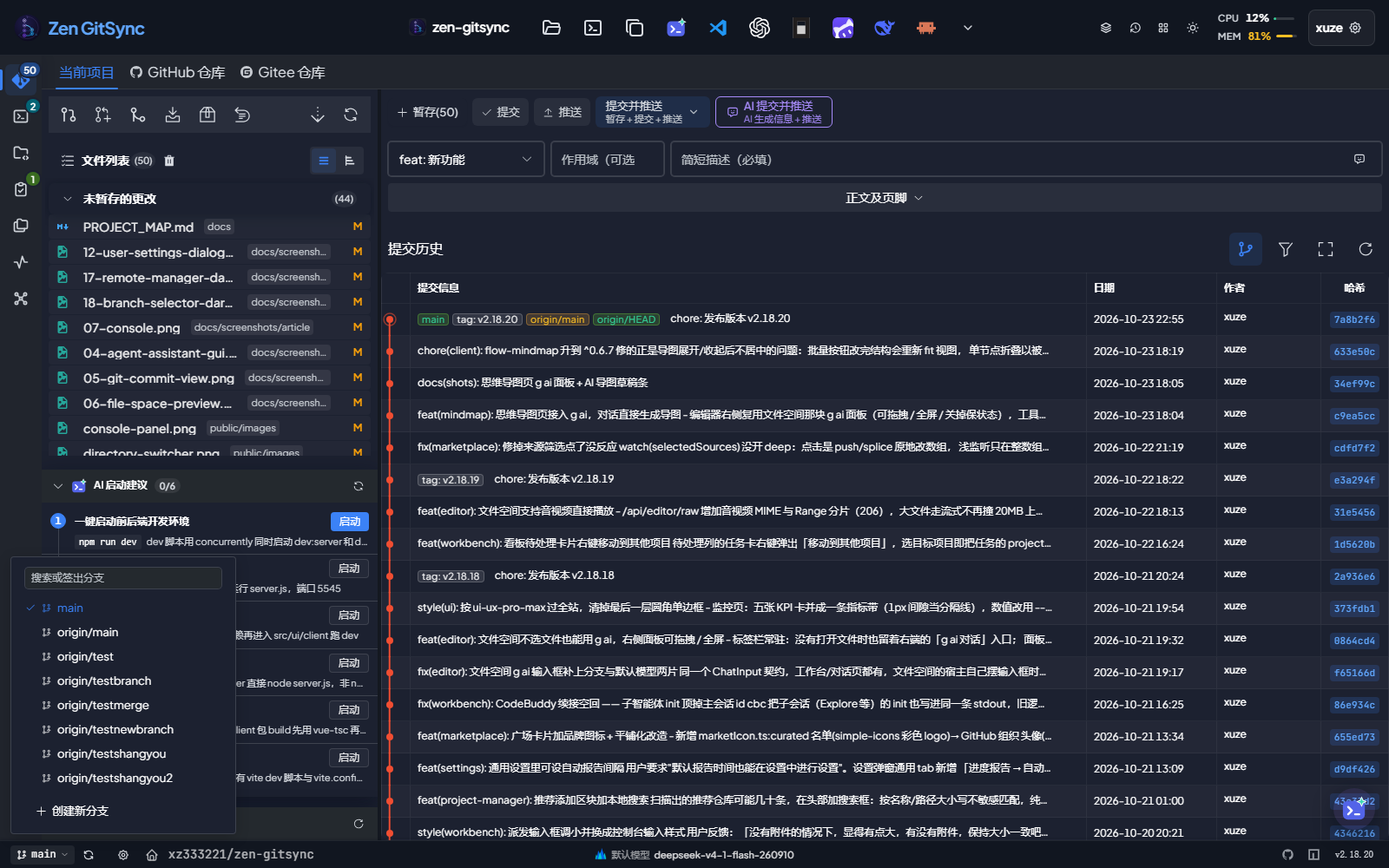
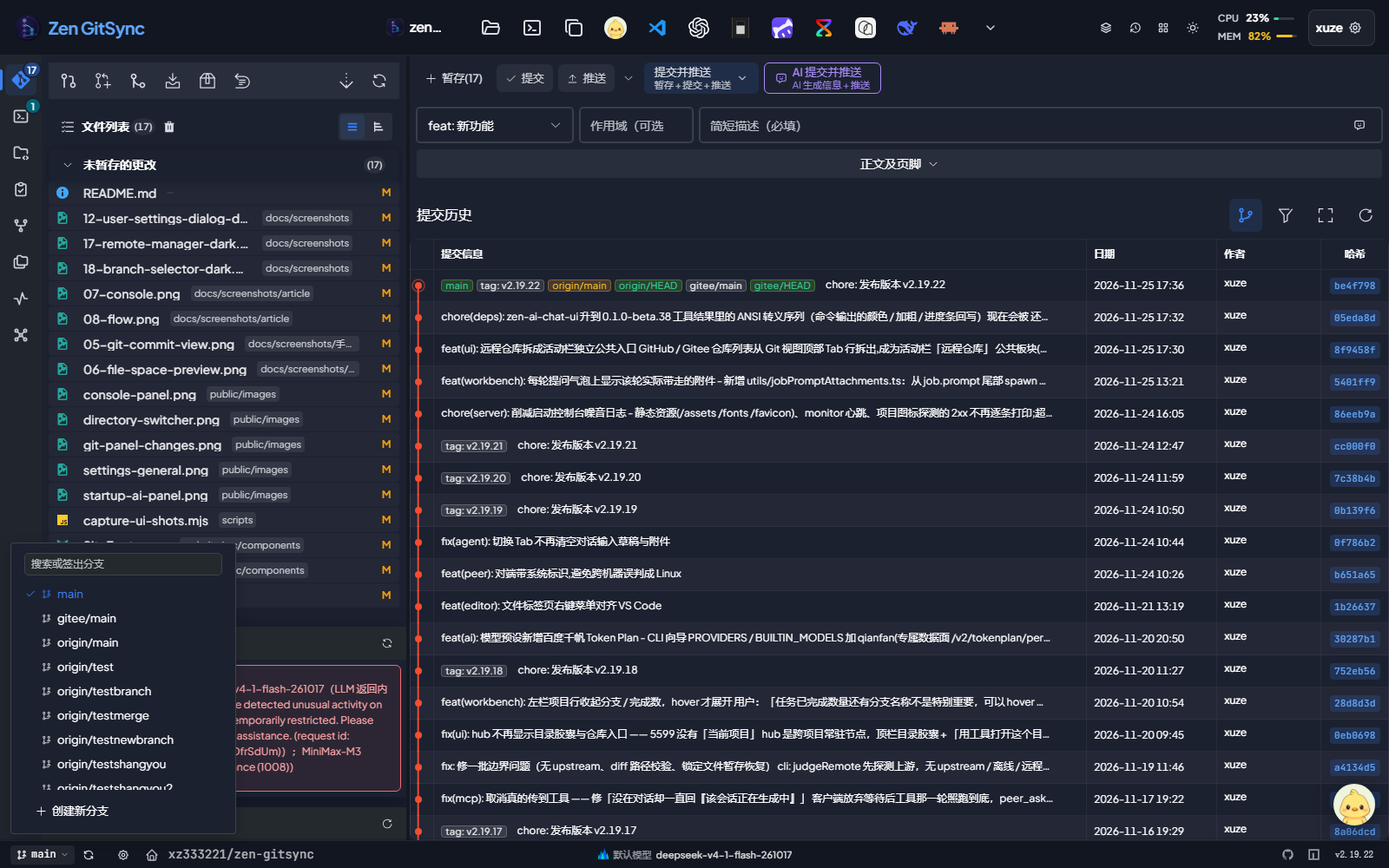
docs(readme): 对齐 v2.19 现状并重截全部界面截图
- 首部加官网链接 zen-gitsync.flowdash.cn（中英两节）
- 智能体入口改为右下角悬浮 dock 口径（活动栏清单、架构图、视图一览、智能体章节）
- 执行器清单扩到 7 个 CLI（+ CodeBuddy Code / Pi / 华为码道 / Qoder），工具检测 7→11
- 英文节补上中文节已有的「监听地址 / 跨站请求守卫」两段
- capture-ui-shots.mjs 整场以 full 角色跑（活动栏按角色门控后 project 只剩 3 个 tab）
- 官网与 README 用图全部按当前 UI 重截

diff --git a/README.md b/README.md
@@ -4,6 +4,8 @@
 
 A Git automation platform with interactive commits, scheduled sync, custom command orchestration, file locking, and a visual GUI.
 
+> **Official site:** [zen-gitsync.flowdash.cn](https://zen-gitsync.flowdash.cn/) — live feature tour & docs
+
 ## Table of Contents
 
 - [Installation](#installation)
@@ -61,7 +63,9 @@ npm install -g zen-gitsync
 - **Custom commands** — Save, parameterize, and reuse shell commands
 - **Project startup** — Auto-run commands or workflows when a project opens
 - **Built-in code editor** — Monaco-based file editor with Markdown preview
-- **Workbench** — a multi-project board with a kanban view and a master-agent dispatch console; task-driven agent execution (Claude Code or OpenCode) with prompt presets, isolated per-task processes, live streaming output, AI-generated presets and task-level attachments
+- **Workbench** — a multi-project board with a kanban view and a master-agent dispatch console; task-driven agent execution across seven CLIs (Claude Code, OpenCode, Codex, CodeBuddy Code, Pi, CodeArts, Qoder) with prompt presets, isolated per-task processes, live streaming output, AI-generated presets and task-level attachments
+- **Floating agent dock** — the AI chat lives in a floating dock available from every view: a mascot button at the bottom-right expands the chat panel in place, maximize restores the full two-column session experience, and switching views keeps the conversation open
+- **Peer MCP tools** — the MCP tool set installed via `g mcp` now includes `peers_list` / `peer_ask`, so an agent on one machine can query and ask the zen-gitsync hub running on another
 - **Repository cloning** — clone any GitHub / Gitee repository into a folder straight from the repo browser, with an *Already cloned* badge (and its local path(s), including the count when a repo lives in several folders) backed by a whole-disk local-repository scan
 - **Skill / MCP marketplace** — install skills and MCP servers from the Agent view into the current project or the `g ai` agent
 - **One-click MCP install** — right-click an editor / AI tool button in the header (VS Code, Claude Code, Codex, OpenCode, CodeBuddy Code, Pi Agent) and choose *Add zen-gitsync MCP* to register zen-gitsync as that tool's MCP server: merged into its config in place with a `.bak` backup (never hand-edit config files again), and the menu shows whether it is already added. The same registry is available from the CLI via `g mcp install`
@@ -88,7 +92,25 @@ npm install -g zen-gitsync
 $ g ui
 ```
 
-The GUI runs as a local web server and opens in your default browser on the first free port it finds in `4000–6000` (set `PORT` to pin a fixed one). It attaches to the current Git repository automatically. The activity bar on the left switches between **Git**, **Console**, **Agent**, **Editor**, **Workbench**, **Projects**, **System Monitor** and **Mindmap**, top to bottom. See the [Core Git Panel](#core-git-panel) screenshot below for what the main view looks like.
+The GUI runs as a local web server and opens in your default browser on the first free port it finds in `4000–6000` (set `PORT` to pin a fixed one). It attaches to the current Git repository automatically. The activity bar on the left switches between **Git**, **Console**, **Editor**, **Workbench**, **Remote repositories**, **Projects**, **System Monitor** and **Mindmap**, top to bottom. The AI agent is not on the rail — it lives in a floating dock at the bottom-right corner of every view (see [AI Agent](#ai-agent-web)). See the [Core Git Panel](#core-git-panel) screenshot below for what the main view looks like.
+
+### Listen address & cross-site guard
+
+By default the GUI server binds to `127.0.0.1` (loopback) only. There is no authentication layer — bound to `0.0.0.0`, endpoints that execute commands, write `package.json` or open files with the system handler would be callable by any host on the network.
+
+To reach the GUI from another machine (or WSL), opt in explicitly:
+
+```shell
+$ ZEN_HOST=0.0.0.0 g ui      # macOS / Linux
+$ set ZEN_HOST=0.0.0.0 && g ui   # Windows cmd
+$ $env:ZEN_HOST="0.0.0.0"; g ui  # PowerShell
+```
+
+With `ZEN_HOST` set, the address is added to the Origin whitelist automatically. All `/api` requests are Origin-checked: no `Origin` header (curl / CLI / same-origin GET), loopback origins on any port, and `file://` pages pass; any other origin gets `403`. Extra origins can be allowed with `ZEN_ALLOWED_ORIGINS` (comma-separated full origins, scheme and port included):
+
+```shell
+$ ZEN_ALLOWED_ORIGINS="https://zen.example.com,http://10.0.0.5:8080" g ui
+```
 
 ### Architecture at a glance
 
@@ -102,9 +124,6 @@ The GUI runs as a local web server and opens in your default browser on the firs
                   │  └───┘                                      │
                   │  ┌──────┐                                   │
                   │  │Consol│─► Saved commands + terminal       │
-                  │  └──────┘                                   │
-                  │  ┌──────┐                                   │
-                  │  │Agent │─► Web agent + Skill/MCP plaza     │
                   │  └──────┘                                   │
                   │  ┌──────┐                                   │
                   │  │Edit  │─► Monaco editor + file tree       │
@@ -205,7 +224,7 @@ In either mode, click **AI Generate** to fill in the fields automatically based 
 
 > Click the directory name in the header (or the folder icon) to open this dialog. Type a path, hit **浏览** to use the OS file picker, or pick from **常用目录** for one-click switching. **使用新标签打开** spawns a new GUI tab on that path so you can keep the current project open.
 
-The header row beside the directory name carries its own quick actions: open in the file manager, open in a terminal, copy the folder name (last path segment only), open with `g ai`, and one button per detected editor / AI tool — VS Code, Codex, OpenCode, CodeBuddy Code, Pi Agent, Kimi Code, ZCode, DeepSeek Harness and Claude Code. Right-clicking a tool button opens its menu: the tools whose CLI can skip approval prompts (Claude Code, Codex, OpenCode, CodeBuddy Code, Kimi Code) list their permission tiers there — default plus that CLI's own fully-approved switch, each row naming the flag it passes — above **update to the latest version**. Tools that are not installed are collected into a **more** menu, where clicking one opens the install guide.
+The header row beside the directory name carries its own quick actions: open in the file manager, open in a terminal, copy the folder name (last path segment only), open with `g ai`, and one button per detected editor / AI tool — VS Code, Codex, OpenCode, CodeBuddy Code, Pi Agent, CodeArts (华为云码道), Qoder, Kimi Code, ZCode, DeepSeek Harness and Claude Code. Right-clicking a tool button opens its menu: the tools whose CLI can skip approval prompts (Claude Code, Codex, OpenCode, CodeBuddy Code, Kimi Code) list their permission tiers there — default plus that CLI's own fully-approved switch, each row naming the flag it passes — above **update to the latest version**. Tools that are not installed are collected into a **more** menu, where clicking one opens the install guide.
 
 When the GUI is opened on a directory that is not a Git repository, the right pane shows the **Recent projects** list instead — every recent directory with its Git badges (behind / ahead / uncommitted) and one-click "open in a new tab". Each page load runs a `git fetch` pass over all of them automatically, so the ahead/behind badges show the real state rather than the snapshot from the last fetch; the **刷新全部** button does the same thing on demand. The switcher dialog shows the same list as **常用目录** and carries the very same **刷新全部** button at the right end of its heading — the automatic pass stays panel-only (opening a dialog should not fetch a dozen repositories behind your back), but the manual one is identical in both places, right down to the progress readout. Both places also have a search box above the cards: type any fragment of a path to filter the list (the AI status summary below keeps describing the whole set, not the filtered view).
 
@@ -374,7 +393,7 @@ Configure commands or workflows to run automatically when a project is opened:
 | **Editor** | Browse & edit project files without leaving the GUI | Open tabs, unsaved markers, recent files | Monaco editor with syntax highlighting, Markdown preview, file search (file names and contents) |
 | **Workbench** | Multi-project board for dispatching and running agent tasks | Tasks, prompts, board layout, log retention | Kanban board, master-agent console, executor choice, live chat-style logs |
 | **Projects** | Manage the project list as an asset | The same list the Workbench reads | Add / remove without touching the current project, recommended additions, 10 s silent refresh |
-| **Agent** | Chat with the built-in AI agent (web + CLI sessions) | Sessions, pending questions | Streaming answers, tool-call cards, Skill / MCP plaza, rail badge counting the conversations still generating |
+| **Agent (dock)** | Chat with the built-in AI agent from any view (web + CLI sessions) | Sessions, pending questions | Floating dock at the bottom-right, streaming answers, tool-call cards, Skill / MCP plaza, dock badge counting the conversations still generating |
 
 **Console**, **System Monitor** and **Mindmap** are utility views on the same rail.
 
@@ -425,15 +444,15 @@ A dedicated view for running coding agents across one or many projects. Every ta
 | Marking a task done by hand | The columns are derived from execution facts, which cannot express the two things only you know: a task sitting in **Todo** that was really finished somewhere else, and an **In progress** task whose model has gone quiet while you can see the work is done. Both cards now hover out a **Done** button next to **Run** / **Stop**, and a card that got into Done *by hand* trades it for **Undo**. A card that finished on its own keeps showing neither — undoing a mark it never had would do nothing at all. Marking a still-running task done asks first and stops that run as part of the same action (a card cannot be Done and running at once), which holds across windows too: if the job lives in another `g ui` instance the server refuses with that very reason instead of pretending. The mark is stored on the task rather than faked as a run record, and a later run of that task supersedes it, so the card goes back to following the facts. Undo is one click with no confirmation — it is the "I clicked the wrong one" path — and hands the card back to the execution facts, which is why it is offered only where the mark is what keeps the card in Done |
 | Dispatch default prompts | Give every dispatch a standing prompt: one **global** entry that applies to all projects, plus one **per project** that is appended after it whenever you dispatch to that project (it supplements the global one rather than replacing it). Both are edited from the gear button in the console's composer; the combined text is prepended to the instruction, a "Default prompt (global + this project)" checkbox appears next to **Run now** so a single dispatch can opt out, and the instruction log records which level was attached. The prompt is copied onto the task at dispatch time, so editing the setting later never rewrites tasks that already exist; it lands in the task's own prompt field, where you can still edit it per task |
 | Project icon | Every project row leads with **the project's own favicon** instead of a generic folder — a 32 px tile spanning the name and branch lines, so the list reads at a glance. The same icon is used on the **recent-directories** cards in the switch-directory dialog, on the **top-bar directory pill**, and on the **board's own title line** (one lookup, one fallback — only the slot height differs per row: 32 px in the list, 24 px on the board, 20 px in the top bar). The server looks for the icon the project actually ships: first the `<link rel="icon">` declared in its `index.html`, then a `favicon.svg` / `.png` / `.webp` / `.ico` found within two levels of the project root (which is what finds layouts like `frontend/public/favicon.svg`). The lookup is bounded (dependency, VCS and cache folders are skipped outright; build output is searched last) and cached for five minutes, so the board's five-second poll never re-walks the disk. Projects that ship no icon — and icons that fail to load, such as a CDN URL the browser refuses — fall back to the folder glyph, so a row never shows a broken image. Nested repositories are skipped on purpose: a folder that merely *contains* your projects keeps the folder glyph instead of borrowing one of theirs |
-| Open-with menu per project | Hovering a project row in the board's project list reveals two buttons: **Open folder** (straight to your file manager) and **Open with**, a menu holding file manager / terminal / `g ui` in a new tab plus every editor and AI tool (VS Code, Codex, OpenCode, CodeBuddy Code, Pi Agent, Kimi Code, ZCode, DeepSeek Harness). The tools whose CLI can skip approval prompts — Claude Code, Codex, OpenCode, CodeBuddy Code, Kimi Code — each add their own fully-approved entry (Codex also gets its auto-approve-but-still-sandboxed one). Tools that are not installed are dimmed and labelled "Not installed" — clicking one opens the very same install guide the top bar uses. Every action applies to that row's project only; the board's selection is never touched |
+| Open-with menu per project | Hovering a project row in the board's project list reveals two buttons: **Open folder** (straight to your file manager) and **Open with**, a menu holding file manager / terminal / `g ui` in a new tab plus every editor and AI tool (VS Code, Codex, OpenCode, CodeBuddy Code, Pi Agent, CodeArts, Qoder, Kimi Code, ZCode, DeepSeek Harness). The tools whose CLI can skip approval prompts — Claude Code, Codex, OpenCode, CodeBuddy Code, Kimi Code — each add their own fully-approved entry (Codex also gets its auto-approve-but-still-sandboxed one). Tools that are not installed are dimmed and labelled "Not installed" — clicking one opens the very same install guide the top bar uses. Every action applies to that row's project only; the board's selection is never touched |
 | Remove a dead project | A row whose folder no longer exists still shows up — the list is the union of recent directories and the paths your tasks remember — so that row gets a single red **Remove from list** button instead of the open actions (opening a missing folder can only fail). The confirm dialog spells it out: **no tasks are deleted**, and the toast repeats how many were kept. The entry disappears from the list while every task, job and history record stays put; if you ever clone the folder back, the row returns on its own |
 | Task editor overlay | Clicking a board card opens the editor as an overlay: a flat sidebar holding the task list and prompt presets, then the task header, preset selector, executor split-button, the copy-execution / execution-log / clear-execution actions, and a chat-style execution body. The description collapses into a one-line "Task description (optional)" summary until clicked, showing a "Filled" badge and the attachment count once there is content. Opening the overlay lands the conversation on its **newest** turn rather than its first: the flow keeps re-pinning to the bottom while markdown highlighting and tool-call folding are still growing it after mount, and lets go as soon as you scroll yourself. The thin bar on top carries the back-to-board button, the current project, then a **task-status badge** (running / done / failed / to-do, in the same role colors as the board column headers, its dot pulsing while it runs; hover for the "AI marked done" / "marked done manually" reasoning — before this the bar showed only time and duration, so a running task could still wear last turn's "1 hour ago · took 13 min" and look finished), and — just left of the "Task execution" label at its right end — the task's **relative time and how long it took** (a "took x" line once it has run, a live "running for x" while it is, and only the time — no placeholder — if it never ran), word for word the same two values the board card shows. When the window narrows, this block and the status badge yield first (the badge is dropped entirely at roughly phone width rather than squashing the project name): the back button, project and execution-path chips never give up a single pixel |
 | Copy execution content | **Copy execution content** in the task header puts the whole task — every turn, not just whatever is on screen — on the clipboard as plain Markdown: a header line for the task and its project, then one section per turn (`## Round N`, with the executor, status and start time on the line under it) holding the user's prompt, the agent's thinking, its tool calls (arguments and results in fenced blocks) and the model's output. It is assembled from the run records rather than scraped from the DOM, so what you get never depends on what happens to be selected. The user side goes through the same trimming the chat bubbles use, so what you copy is what you typed — the injected environment / memory blocks and the attachment list stay behind in `job.prompt`. Turns with nothing in them are skipped without renumbering the ones after them, and a task that has never run answers with a "nothing to copy" toast instead of putting an empty string on the clipboard |
-| Executor choice | Run each task with **Claude Code**, **OpenCode** or **Codex**. The global default is set in **Settings → General → Task executor** (`config.taskExecutor`); the split-button next to the run button switches it for the next run and remembers that pick in the browser. A continued conversation always stays on the executor that started it — Claude's `--resume`, OpenCode's `--session` and Codex's thread id are not interchangeable |
+| Executor choice | Run each task with **Claude Code**, **OpenCode**, **Codex**, **CodeBuddy Code**, **Pi**, **CodeArts (华为云码道)** or **Qoder**. The global default is set in **Settings → General → Task executor** (`config.taskExecutor`); the split-button next to the run button switches it for the next run and remembers that pick in the browser. A continued conversation always stays on the executor that started it — the resume flags are not interchangeable across CLIs |
 | Attachments | Any number of files per task (image / PDF / text / Markdown / CSV / JSON / log, ≤ 20 MB each); images over 3.5 MB are re-encoded / downscaled in the browser before upload so 4K screenshots still fit what the model and the reader can take. Their absolute paths are appended to the prompt so the agent reads them directly. Right-click an image attachment to copy it to the system clipboard (`image/png` / `jpeg` / `webp` / `gif`). The board's create-task dialog takes them too, before the task exists: files are staged server-side (`workbench-images/_dispatch/`) and claimed into the task's own folder the moment you hit Create, the create button stays disabled while an upload is in flight, and closing the dialog without creating deletes them instead of leaving screenshots behind. File names travel percent-encoded, so a name written in Chinese uploads like any other. The attachments a run actually carried also show up on that turn's question bubble in the conversation flow (image thumbnails included) — see Continue chat |
 | Prompt presets | Reusable prompt templates with `{{task.title}}` / `{{task.desc}}` / `{{repo.path}}` / `{{branch}}` variable interpolation |
 | AI prompt generation | The "New / Edit preset" dialog carries an **AI Generate project architecture** button plus an **Edit instruction** button: the server recursively finds every sub-project (a directory holding `.git` or one of 9 manifests), reads each one's key files on its own (manifest 20 KB / README 8 KB / a 2-level tree), calls the LLM concurrently to produce a per-sub-project architecture description, and merges them into one when there are several. **Edit instruction** customises the prompt used for generation (persisted to `~/.zen-gitsync/ai-instruction.json`) |
-| Pipe-mode launcher | Spawns the selected executor as a detached process with stdout/stderr piped to the server — no external terminal window is opened, so output streams directly into the UI. Claude Code runs as `claude -p - --output-format stream-json --verbose --permission-mode bypassPermissions --dangerously-skip-permissions` (the prompt goes in over stdin to dodge Windows' 32 K command-line limit); OpenCode runs as `opencode run --format json --auto --thinking`; Codex runs as `codex exec --json --skip-git-repo-check --dangerously-bypass-approvals-and-sandbox -`, both following whatever default model their own CLI is configured with |
+| Pipe-mode launcher | Spawns the selected executor as a detached process with stdout/stderr piped to the server — no external terminal window is opened, so output streams directly into the UI. Claude Code runs as `claude -p - --output-format stream-json --verbose --permission-mode bypassPermissions --dangerously-skip-permissions` (the prompt goes in over stdin to dodge Windows' 32 K command-line limit); OpenCode runs as `opencode run --format json --auto --thinking`; Codex runs as `codex exec --json --skip-git-repo-check --dangerously-bypass-approvals-and-sandbox -`; CodeBuddy / Pi / CodeArts / Qoder run their own headless JSON-stream equivalents — each following whatever default model its own CLI is configured with |
 | Isolated processes | Every run is its own detached process with fresh context, so memory and conversation state never accumulate across tasks |
 | **Cross-run memory** | Every dispatched task is told about a local memory library at `~/.zen-gitsync/memory/` — the lessons earlier agents in that same repository left behind. The library is deliberately **two-tier**: only `INDEX.md` (one ≤100-character line per lesson) ever enters the prompt, while the lesson bodies live in `lessons/*.md` and are read **on demand, only when an index line actually matches the task**. Nothing is preloaded and `archive/` is never read — which is the whole point, since pasting the index into every prompt would make each dispatch pay for every unrelated historical lesson. When the workbench starts, the library is seeded if it does not exist yet (existing files are never overwritten). Before finishing, each agent self-checks four questions — stuck ≥3 min or a repeated wrong path, a wrong tool / wrong file / a grep drowned in build output, a correction from you, or a verified non-obvious shortcut — and writes **one** lesson if any of them is yes, always appending the matching `INDEX.md` line (a lesson without an index line is a lesson nobody will ever find). Set `memoryContext: false` on a task to opt out of the whole thing |
 | Memory library panel | **Settings → Memory** browses the same library: a scope picker (the two global files plus every repository the agents have worked in, labelled by its real path), the lesson list for the selected scope, and click-to-expand for the raw text. Deleting a lesson **also removes its line from the index** — leaving a line behind would point agents at a file that no longer exists. Lessons that were written without an index line are badged as **Not indexed**, since the agent can never find those. `GLOBAL.md` and `INDEX.md` themselves cannot be deleted (they are the accounting). Nothing here is saved through the dialog's Save button: every action takes effect immediately |
@@ -445,7 +464,7 @@ A dedicated view for running coding agents across one or many projects. Every ta
 | Cross-view indicator | While any Workbench task is running, a pulsing dot appears on the Workbench icon in the Activity Bar so you can see job state from the Git or Editor view |
 | Execution log manager (dialog) | The "Execution logs" button in the workbench top bar opens a dialog with the list / filter / batch delete / clear / retention-policy UI (defaults: 500 records, 256 MB); the task execution view stays mounted so no work-in-progress state is dropped |
 | Continue chat | After a task reaches a done / error / cancelled state, a follow-up composer appears; sending a message resumes the previous session (`claude --resume <session_id>` for Claude Code, `--session` for OpenCode, `codex exec resume <thread_id>` for Codex), and each new turn stacks into the same chat-style flow. Since the resumed session already carries the previous turn's context, follow-up turns inject only a **slim refresh** of the run-environment block (current project + board totals + truth-file paths) instead of the full project list. The bubbles show only what the user actually typed: the injected environment / memory blocks and the attachment list stay in the raw `job.prompt` (readable and copyable in the run log), so copying a conversation out and pasting it back no longer drags a whole round of background along. **The attachments each turn actually carried render on that turn's question bubble** — parsed back from the frozen list at the tail of `job.prompt`, so old runs show them too and files added later never leak onto earlier bubbles; images claim their thumbnail from the attachment endpoint when the task still has the record, otherwise they degrade to a file chip |
-| Local tool detection | On startup + every 10 min the server probes 7 CLIs (`code`, `claude`, `codex`, `opencode`, `kimi`, `zcode`, `dsh`). Tools that are missing are dimmed and labelled "Not installed" — clicking one opens the install guide, and right-clicking a tool button offers an update to the latest published version |
+| Local tool detection | On startup + every 10 min the server probes 11 CLIs (`code`, `claude`, `codex`, `opencode`, `codebuddy`, `pi`, `codearts`, `qoder`, `kimi`, `zcode`, `dsh`). Tools that are missing are dimmed and labelled "Not installed" — clicking one opens the install guide, and right-clicking a tool button offers an update to the latest published version |
 
 Prompt presets and tasks are persisted to `~/.zen-gitsync/prompts.json` and `~/.zen-gitsync/tasks.json` (cross-project, shared across repos); run history and the retention policy live in `jobs.json` / `jobs-config.json`, the master-agent console state in `orchestrator.json` (with its report history in `orchestrator-reports.json` — kept apart so the polled state file stays small), and task attachments under `~/.zen-gitsync/workbench-images/_task-<taskId>/`.
 
@@ -453,7 +472,7 @@ Prompt presets and tasks are persisted to `~/.zen-gitsync/prompts.json` and `~/.
 
 ### AI Agent (Web)
 
-A dedicated view (robot icon in the activity bar) for chatting with the built-in AI agent directly from the browser. The left sidebar lists all saved sessions (both Web and CLI origins); the right pane is a full chat interface with streaming responses, thinking process display, and tool-call visualization.
+The AI agent is reachable from every view through a **floating dock at the bottom-right corner**: a small mascot button expands the chat panel in place, and the dock's maximize button turns it into the full two-column layout (session list + conversation) — the complete experience the former dedicated Agent view had. The session list covers all saved sessions (both Web and CLI origins); the conversation pane is a full chat interface with streaming responses, thinking process display, and tool-call visualization.
 
 | Feature | Description |
 |---|---|
@@ -729,6 +748,8 @@ $ g --check-lock=config.json
 
 `zen-gitsync` 是一个 Git 自动化工作平台，支持交互式提交、定时同步、自定义命令编排、文件锁定与可视化 GUI 界面。
 
+> **官网：** [zen-gitsync.flowdash.cn](https://zen-gitsync.flowdash.cn/) —— 功能介绍与在线文档
+
 ## 目录
 
 - [安装](#安装)
@@ -786,7 +807,9 @@ npm install -g zen-gitsync
 - **自定义命令** — 保存、参数化并复用 Shell 命令
 - **项目启动** — 打开项目时自动运行命令或工作流
 - **内置代码编辑器** — 基于 Monaco 的文件编辑器，支持 Markdown 预览
-- **工作台** — 多项目看板 + 主 Agent 派发控制台；任务驱动的智能体执行（Claude Code 或 OpenCode），支持提示词预置、任务级附件、独立进程、实时流式回传与 AI 生成预置提示词
+- **工作台** — 多项目看板 + 主 Agent 派发控制台；任务驱动的智能体执行，支持 7 个 CLI 执行器（Claude Code、OpenCode、Codex、CodeBuddy Code、Pi、华为云码道、Qoder），支持提示词预置、任务级附件、独立进程、实时流式回传与 AI 生成预置提示词
+- **g ai 悬浮 dock** — AI 对话整合为右下角悬浮球：点 mascot 原地展开对话面板，最大化恢复完整两栏会话体验；切换视图不丢对话
+- **peer MCP 工具** — `g mcp` 登记的 MCP 工具集新增 `peers_list` / `peer_ask`，一台机器上的智能体可以查询并询问另一台机器上的 zen-gitsync hub
 - **仓库克隆** — 在仓库浏览器里把任意 GitHub / Gitee 仓库直接克隆到指定文件夹，卡片带「已克隆」徽标与本地路径（同一仓库克隆到多处时会显示条数，由全盘本地仓库扫描得出）
 - **Skill / MCP 广场** — 在智能体页把 Skill 与 MCP 服务安装到当前项目或 `g ai` 智能体
 - **一键添加 MCP** — 右键顶栏的编辑器 / AI 工具按钮（VS Code、Claude Code、Codex、OpenCode、CodeBuddy Code、Pi Agent），选「添加 zen-gitsync MCP」即可把 zen-gitsync 登记为那个工具的 MCP 服务 —— 合并式写入 + `.bak` 备份，不用手改配置文件；菜单里会标出是否已添加。同一份登记逻辑在 CLI 侧是 `g mcp install`
@@ -813,7 +836,7 @@ npm install -g zen-gitsync
 $ g ui
 ```
 
-GUI 以本地 Web 服务器形式运行，自动在浏览器中打开，并附加到当前 Git 仓库。端口默认在 `4000–6000` 里挑第一个可用的（可用 `PORT` 固定）。左侧 Activity Bar 自上而下为 **Git** / **控制台** / **智能体** / **编辑器** / **工作台** / **项目管理** / **系统监控** / **思维导图**。主界面长什么样可参考下方[核心 Git 面板](#核心-git-面板)的截图。
+GUI 以本地 Web 服务器形式运行，自动在浏览器中打开，并附加到当前 Git 仓库。端口默认在 `4000–6000` 里挑第一个可用的（可用 `PORT` 固定）。左侧 Activity Bar 自上而下为 **Git** / **控制台** / **编辑器** / **工作台** / **远程仓库** / **项目管理** / **系统监控** / **思维导图**；AI 智能体不在导航栏上 —— 它是每个视图右下角的悬浮 dock（见[智能体](#智能体web-端)）。主界面长什么样可参考下方[核心 Git 面板](#核心-git-面板)的截图。
 
 ### 监听地址
 
@@ -858,9 +881,6 @@ $ ZEN_ALLOWED_ORIGINS="https://zen.example.com,http://10.0.0.5:8080" g ui
                   │  └───┘                                      │
                   │  ┌──────┐                                   │
                   │  │控制 │──► 保存的命令 + 终端                 │
-                  │  └──────┘                                   │
-                  │  ┌──────┐                                   │
-                  │  │智能 │──► Web 智能体 + Skill/MCP 广场      │
                   │  └──────┘                                   │
                   │  ┌──────┐                                   │
                   │  │编辑 │──► Monaco 编辑器 + 文件树           │
@@ -961,7 +981,7 @@ $ ZEN_ALLOWED_ORIGINS="https://zen.example.com,http://10.0.0.5:8080" g ui
 
 > 点击顶部条里的目录名（或文件夹图标）即可弹出该对话框。直接输入路径、点击 **浏览** 唤起系统文件选择器，或从 **常用目录** 一键切换。**使用新标签打开** 会在新 GUI 标签里加载目标路径，原项目保持不动。
 
-目录名旁边的顶部条自带一排快捷操作：在资源管理器中打开、在终端中打开、复制文件夹名称（只复制最后一级目录名）、用 `g ai` 打开，以及每个已检测到的编辑器 / AI 工具各一个按钮 —— VS Code、Codex、OpenCode、CodeBuddy Code、Pi Agent、Kimi Code、ZCode、DeepSeek Harness 与 Claude Code。右键工具按钮弹出的菜单里：CLI 本身有免批准档的工具（Claude Code、Codex、OpenCode、CodeBuddy Code、Kimi Code）逐档列出「默认权限」与它自己那个完全批准开关（每行都写明实际传的参数），排在「更新到最新版本」之上。没安装的工具会收进 **更多** 菜单，点一下弹出安装引导。
+目录名旁边的顶部条自带一排快捷操作：在资源管理器中打开、在终端中打开、复制文件夹名称（只复制最后一级目录名）、用 `g ai` 打开，以及每个已检测到的编辑器 / AI 工具各一个按钮 —— VS Code、Codex、OpenCode、CodeBuddy Code、Pi Agent、华为云码道（CodeArts）、Qoder、Kimi Code、ZCode、DeepSeek Harness 与 Claude Code。右键工具按钮弹出的菜单里：CLI 本身有免批准档的工具（Claude Code、Codex、OpenCode、CodeBuddy Code、Kimi Code）逐档列出「默认权限」与它自己那个完全批准开关（每行都写明实际传的参数），排在「更新到最新版本」之上。没安装的工具会收进 **更多** 菜单，点一下弹出安装引导。
 
 当 GUI 打开在一个**不是 Git 仓库**的目录上时，右侧会改为显示「最近项目」列表 —— 每个最近目录一张卡片，带 Git 徽标（落后 / 领先 / 未提交）与「在新标签页打开」。每次打开界面时会自动对所有项目跑一遍 `git fetch`，让「领先/落后」显示真实状态而不是上次 fetch 时的快照；**刷新全部** 按钮可以随时手动再刷一遍。切换目录弹窗里是同一份列表（叫 **常用目录**），标题行右端摆着同一个 **刷新全部** 按钮 —— 自动刷新仍然只发生在常驻面板上（打开一个选目录的弹窗不该顺手联网刷十几个仓库），但手动刷新两处完全一致，连进度读数都是同一个。两处的卡片上方还各有一个搜索框：敲路径里的任意一段就能筛出对应的卡片（底下的 AI 状态解读始终按全量那批目录来讲，不跟着筛选变）。
 
@@ -1130,7 +1150,7 @@ $ ZEN_ALLOWED_ORIGINS="https://zen.example.com,http://10.0.0.5:8080" g ui
 | **编辑器** | 不离开 GUI 浏览并编辑项目文件 | 打开的 tab、未保存标记、最近访问 | Monaco 编辑器带语法高亮、Markdown 预览、文件搜索（文件名 + 文件内容） |
 | **工作台** | 多项目看板：派发并执行智能体任务 | 任务、提示词、看板布局、日志保留策略 | 看板视图、主 Agent 控制台、执行器选择、对话式实时日志 |
 | **项目管理** | 把项目清单当资产管理 | 与工作台同一份清单 | 添加 / 删除不切换当前项目、推荐添加、10 秒静默刷新 |
-| **智能体** | 与内置 AI 智能体对话（Web + CLI 会话） | 会话、待回答问题 | 流式回答、工具调用卡片、Skill / MCP 广场、导航栏徽标显示仍在生成的对话数 |
+| **智能体（悬浮 dock）** | 在任意视图与内置 AI 智能体对话（Web + CLI 会话） | 会话、待回答问题 | 右下角悬浮 dock、流式回答、工具调用卡片、Skill / MCP 广场、dock 徽标显示仍在生成的对话数 |
 
 **控制台**、**系统监控**、**思维导图** 是同一导航栏上的辅助视图。
 
@@ -1182,15 +1202,15 @@ Activity Bar 第四个视图，在 GUI 内直接浏览并编辑项目文件：
 | 派发执行器 | 派出去的任务由哪个 CLI 跑：**对话模式**在输入框下方选，**指令模式**在派发栏选 —— 两处是同一个组件、同一份选择，与执行按钮的临时切换也共用。注意「引擎」和「执行器」不是一回事：只有**内置 g ai** 能在服务端跑工具循环、才有派发能力，所以对话模式下把引擎切成外部 CLI 时，执行器选择会换成一句「当前引擎只能对话，不能派发任务 —— 切到内置 g ai 才能派活」的说明，而不是让你点了个不会生效的下拉 |
 | 派发默认提示词 | 给每次派发配一段常驻提示词：一条**全局**的（所有项目都附加）+ 每个项目一条（派发到该项目时追加在全局之后，是补充而不是覆盖）。两者都在控制台输入区的齿轮按钮里设置；拼好的正文放在指令**之前**，「立即执行」旁边会多出一个「默认提示词（全局 + 本项目）」勾选，单次派发可以取消勾选，指令流水里也记下这条指令附带的是哪一级。提示词在派发那一刻就抄进任务自己的提示词字段，之后改设置不会回头改写已建任务，单条任务仍可再改 |
 | 项目图标 | 每一行的图标位优先画**项目自己的 favicon**，而不是一律一枚文件夹 —— 32px 的方块，跨「名字行 + 分支行」两行，一屏扫下来认得出谁是谁；**切换目录弹窗里的「常用目录」卡片**用的是同一枚图，**顶栏目录胶囊**与**中间看板的标题行**也是这一枚（同一个探测、同一套兜底，只是槽高按各自那一行的高度定：左栏 32px / 看板 24px / 顶栏 20px）。服务端去找项目真正带的那一枚：先是它 `index.html` 里声明的 `<link rel="icon">`，再是项目根往下两层内的 `favicon.svg` / `.png` / `.webp` / `.ico`（`frontend/public/favicon.svg` 这类布局正是靠这一条找到的）。扫描范围有界（依赖 / 版本控制 / 缓存目录直接不进，构建产物排在最后），结果缓存 5 分钟 —— 看板 5 秒轮询不会反复走盘。没带图标的项目、以及加载失败的图标（例如项目把图标放在 CDN 上而浏览器拒了那次请求）都退回文件夹图标，行上不会留一枚破图。嵌套仓库刻意跳过：只是"装着一堆项目"的目录显示文件夹图标，不去借里面某个项目的 logo |
-| 项目行打开方式 | 编排台项目列表里 hover 任意一行会出现两个按钮：「打开文件夹」一键进资源管理器，以及「打开方式」菜单 —— 文件管理器 / 终端 / 新标签页跑 `g ui`，以及各编辑器与 AI 工具（VS Code、Codex、OpenCode、CodeBuddy Code、Pi Agent、Kimi Code、ZCode、DeepSeek Harness）。CLI 有免批准档的那几家 —— Claude Code、Codex、OpenCode、CodeBuddy Code、Kimi Code —— 各自多出一条「完全批准」项（Codex 还多一条"自动批准但仍在沙箱内"）。没安装的工具会置灰并标「未安装」，点它弹的是顶栏那套安装引导；菜单里的动作只作用于该行项目，不会改变看板选中态 |
+| 项目行打开方式 | 编排台项目列表里 hover 任意一行会出现两个按钮：「打开文件夹」一键进资源管理器，以及「打开方式」菜单 —— 文件管理器 / 终端 / 新标签页跑 `g ui`，以及各编辑器与 AI 工具（VS Code、Codex、OpenCode、CodeBuddy Code、Pi Agent、华为云码道、Qoder、Kimi Code、ZCode、DeepSeek Harness）。CLI 有免批准档的那几家 —— Claude Code、Codex、OpenCode、CodeBuddy Code、Kimi Code —— 各自多出一条「完全批准」项（Codex 还多一条"自动批准但仍在沙箱内"）。没安装的工具会置灰并标「未安装」，点它弹的是顶栏那套安装引导；菜单里的动作只作用于该行项目，不会改变看板选中态 |
 | 移除死项目 | 目录已经不存在的项目行仍会留在清单里（清单是常用目录与任务路径两份来源的并集），这一行 hover 时不再给任何打开动作（点了只会报「无法打开目录」），只留一颗红色的**「从清单移除」**。确认框会写明**任务不会被删除**，成功提示还会带上保留的条数。移除后这一行从清单消失，而任务、执行记录、历史一条不动；目录哪天被克隆回来，它会自己现身 |
 | 任务编辑器浮层 | 点击看板卡片时以浮层打开：左侧是扁平化的任务列表与提示词预置，右侧依次是任务头部、预置下拉、执行器 split 按钮、「复制执行内容 / 执行日志 / 清空执行」动作，以及对话式执行主体。描述默认折叠成一行「任务描述（可选）」摘要，点击展开；已填写描述或挂有附件时摘要右侧显示「已填写」徽标与附件数量。打开浮层时对话流直接落在**最新一轮**而不是第一轮：正文异步高亮与工具调用折叠会在挂载后继续长高，这段时间里持续贴底，用户自己一滚就立刻撒手。顶部细栏在「返回看板」与当前项目之后补一枚**任务状态徽标**（执行中 / 已完成 / 执行失败 / 待处理，用与看板列头同一套角色色，在跑时圆点脉动；悬停可看「AI 判定完成」「手动已完成」等依据 —— 以前细栏只有时间与用时，正在跑的任务顶上可能还挂着上一轮的「1 小时前 · 用时 13 分」，看着像早就跑完了），右端靠着一枚「任务执行」，并给出这条任务的**相对时间与用时**（跑过给「用时 x」，正在跑给实时的「已运行 x」，从没跑过只给时间、不写占位），与看板卡片上那两个值逐字一致；窗口收窄时先让位的是这一块与状态徽标，左边的返回 / 项目 / 执行于一个字节都不动（状态徽标在≈手机宽时整体收起，而不是压着项目名变形） |
 | 复制执行内容 | 任务头部的「复制执行内容」把**整条任务**（所有轮次，不只是屏幕上那一段）以纯 Markdown 放进剪贴板：先是任务与项目的标题行，然后一轮一节（`## 第 N 轮`，下面一行是本轮执行器、状态与开始时间），每节依次是用户提示词、智能体思考、工具调用（参数与结果都放在围栏代码块里）与模型返回。内容是从执行记录现拼的、不是从 DOM 里抠的，所以复制到什么跟你当前选中了哪段文字无关。用户侧走的是与对话气泡同一套裁剪，复制出来的就是你真正说过的话 —— 注入的环境块 / 记忆块 / 附件清单留在 `job.prompt` 里不跟着出去。一个字都没有的轮次会被跳过，且不让后面的轮次跟着往前重编号；从没跑过的任务回答「暂无执行内容可复制」，而不是把空串写进剪贴板 |
-| 执行器选择 | 每个任务可用 **Claude Code** / **OpenCode** / **Codex** 执行。全局默认在 **设置 → 通用设置 → 任务执行器**（`config.taskExecutor`）；执行按钮旁的 split 按钮可临时切换下一次执行用的执行器，选择记在浏览器里。续聊固定沿用最初那个执行器 —— Claude 的 `--resume`、OpenCode 的 `--session`、Codex 的 thread id 互不通用 |
+| 执行器选择 | 每个任务可用 **Claude Code** / **OpenCode** / **Codex** / **CodeBuddy Code** / **Pi** / **华为云码道（CodeArts）** / **Qoder** 执行。全局默认在 **设置 → 通用设置 → 任务执行器**（`config.taskExecutor`）；执行按钮旁的 split 按钮可临时切换下一次执行用的执行器，选择记在浏览器里。续聊固定沿用最初那个执行器 —— 各家 CLI 的续接参数互不通用 |
 | 附件 | 附件**数量不设上限**（图片 / PDF / 文本 / Markdown / CSV / JSON / log，单个 ≤ 20 MB）；超过 3.5 MB 的图片会先在浏览器里压缩（先按原分辨率转 WebP，压不下去再逐级降采样），4K 屏截图不用再手动裁剪；执行时绝对路径会自动追加到 prompt 末尾，智能体直接按路径读取。**右键图片附件可一键复制到系统剪贴板**（支持 png / jpeg / webp / gif）。看板的**新建任务弹窗**也能挂附件 —— 那一刻任务还不存在，所以文件先落在服务端暂存区（`workbench-images/_dispatch/`），点「创建」的瞬间被认领进任务自己的目录；还有附件正在上传时创建按钮是禁用的（否则那张图既进不了任务也不会被清掉），而关掉弹窗等于放弃这次新建，暂存的文件会一并删掉、不在磁盘上留一堆截图。文件名按百分号编码传输，所以中文名文件（「登录模块-改造前.png」）也能正常上传。这一轮实际带走的附件也会显示在对话流里那一轮的提问气泡上（含图片缩略图）—— 见「继续对话」一行 |
 | 提示词预置 | 可复用提示词模板，支持 `{{task.title}}` / `{{task.desc}}` / `{{repo.path}}` / `{{branch}}` 变量插值 |
 | AI 生成预置 | 「新建 / 编辑预置」对话框内置 **AI 生成项目架构说明** 按钮 + **编辑指令** 按钮：服务端递归识别当前项目里的所有子项目（含 `.git` 或 9 种 manifest 之一的目录），为每个子项目独立读取关键文件（manifest 20 KB / README 8 KB / 2 层目录树），并发调 LLM 产出各子项目架构说明，多子项目场景再合并成一份整体说明；用户可点「编辑指令」自定义生成策略（持久化到 `~/.zen-gitsync/ai-instruction.json`）；`max_tokens=4000`，单次请求最多 20 分钟 |
-| 管道模式启动 | 选定执行器以 detached 进程拉起，stdout / stderr 通过管道回传服务端，不再弹外部终端窗口。Claude Code 走 `claude -p - --output-format stream-json --verbose --permission-mode bypassPermissions --dangerously-skip-permissions`（prompt 从 stdin 喂入，避开 Windows 32K 命令行上限）；OpenCode 走 `opencode run --format json --auto --thinking`；Codex 走 `codex exec --json --skip-git-repo-check --dangerously-bypass-approvals-and-sandbox -`，后两者的模型都跟随各自 CLI 配置的默认值 |
+| 管道模式启动 | 选定执行器以 detached 进程拉起，stdout / stderr 通过管道回传服务端，不再弹外部终端窗口。Claude Code 走 `claude -p - --output-format stream-json --verbose --permission-mode bypassPermissions --dangerously-skip-permissions`（prompt 从 stdin 喂入，避开 Windows 32K 命令行上限）；OpenCode 走 `opencode run --format json --auto --thinking`；Codex 走 `codex exec --json --skip-git-repo-check --dangerously-bypass-approvals-and-sandbox -`；CodeBuddy / Pi / 华为云码道 / Qoder 各走自家无头 JSON 流参数 —— 模型都跟随各自 CLI 配置的默认值 |
 | 独立进程 | 每次执行都是独立的 detached 进程，上下文与状态不会跨任务累积 |
 | **跨轮记忆** | 每次派发都会告诉智能体本机有一份记忆库 `~/.zen-gitsync/memory/` —— 同一仓库里之前的智能体踩过的坑。记忆库刻意做成**两级**：只有 `INDEX.md`（每条经验 ≤100 字）会进 prompt，经验正文放在 `lessons/*.md` 里，**命中关键词才按需读取**。不预加载、`archive/` 永不读 —— 这正是重点：把索引整份塞进每次派发，等于每跑一次任务都要为所有不相关的历史经验付 token。工作台启动时若目录不存在会铺一份种子（**已存在的文件永不覆盖**）。收尾时智能体自检四问：卡住 ≥3 分钟或走了反复路径 / 用错工具写错文件或 grep 被构建产物淹没 / 你纠正过它的方向 / 发现"看似绕路但更快"或"反直觉但正确"且被验证的做法 —— 任一为是就记**一条**，并且必须在对应 `INDEX.md` 补一行索引（**没索引的经验等于不存在**）。单条任务可设 `memoryContext: false` 整块关掉 |
 | 记忆库面板 | **设置 → 记忆库** 浏览同一份库：范围选择器（全局两篇 + 智能体干过活的所有仓库，按真实路径标注）→ 该范围的条目列表 → 点标题展开看**原始文本**。删除一条会**连带删掉它在索引里的那一行** —— 留着就是一条指向已删文件的死链。没有索引行的经验标为**「未索引」**，因为智能体永远查不到它们。`GLOBAL.md` 与 `INDEX.md` 本身不可删（它们是记账口径）。面板里的操作全部即时生效，不走弹窗的「保存设置」 |
@@ -1202,7 +1222,7 @@ Activity Bar 第四个视图，在 GUI 内直接浏览并编辑项目文件：
 | 跨视图指示 | 任意任务运行中时，Activity Bar 上的工作台图标会显示脉动小圆点；切换到 Git 或编辑器视图也能看到运行状态 |
 | 执行日志管理（弹窗） | 顶部「执行日志」按钮唤起弹窗：列表 / 过滤 / 批量删除 / 清空 / 保留策略全部可在此一次性管理（默认保留 500 条、256 MB）；弹窗关闭后任务执行视图常驻，避免切换时不必要的卸载 |
 | 继续对话 | 任务进入终态（done / error / cancelled）后出现续聊输入框；发送续聊消息会用 `claude --resume <session_id>`（Claude Code）、`--session`（OpenCode）或 `codex exec resume <thread_id>`（Codex）续接上一轮会话，**新一轮 = 新 job**，多轮纵向堆叠成对话流。续接的会话本身就带着上一轮的上下文，所以续聊轮注入的是**精简刷新版**运行环境块（当前项目 + 看板合计 + 真相源路径），不再重发整份项目清单。对话气泡只显示用户真正说过的那句话 —— 注入的环境块 / 记忆块 / 附件清单仍留在 `job.prompt` 原文里（执行日志详情可看可复制），所以把对话复制出来再粘回续聊框时不会连带一整套背景一起回去。**每一轮提问气泡上还会渲染那一轮实际带走的附件** —— 从 `job.prompt` 尾部那份 spawn 时冻结的清单解析回来，老任务同样能看到，后来补传的附件也不会回灌到早先的气泡上；图片在任务还留着这条附件记录时从附件端点取缩略图，取不到就退回文件名 chip |
-| 本地工具检测 | 启动时 + 每 10 分钟探测 7 个 CLI（`code` / `claude` / `codex` / `opencode` / `kimi` / `zcode` / `dsh`）。未安装的工具置灰并标「未安装」，点击弹出安装引导；右键工具按钮可升级到最新已发布版本 |
+| 本地工具检测 | 启动时 + 每 10 分钟探测 11 个 CLI（`code` / `claude` / `codex` / `opencode` / `codebuddy` / `pi` / `codearts` / `qoder` / `kimi` / `zcode` / `dsh`）。未安装的工具置灰并标「未安装」，点击弹出安装引导；右键工具按钮可升级到最新已发布版本 |
 
 提示词预置与任务数据持久化到 `~/.zen-gitsync/prompts.json` 和 `~/.zen-gitsync/tasks.json`（跨项目共享）；执行历史与保留策略在 `jobs.json` / `jobs-config.json`，主 Agent 控制台状态在 `orchestrator.json`（进度报告历史另存 `orchestrator-reports.json` —— 与"配置和历史分两个文件"同一个理由：被 5s 轮询的那份要小），任务附件落盘在 `~/.zen-gitsync/workbench-images/_task-<taskId>/`。
 
@@ -1210,7 +1230,7 @@ Activity Bar 第四个视图，在 GUI 内直接浏览并编辑项目文件：
 
 ### 智能体（Web 端）
 
-Activity Bar 中的机器人图标视图，可直接在浏览器中与内置 AI 智能体对话。左侧边栏列出所有已保存的会话（含 Web 端和 CLI 端来源）；右侧为完整的对话界面，支持流式输出、思考过程展示和工具调用可视化。
+AI 智能体通过每个视图**右下角的悬浮 dock** 随时可达：点 mascot 按钮原地展开对话面板，dock 上的最大化按钮再恢复成完整两栏布局（会话列表 + 对话）—— 即原先独立智能体视图的完整体验。左侧会话列表覆盖全部已保存会话（含 Web 端和 CLI 端来源）；对话区是完整的对话界面，支持流式输出、思考过程展示和工具调用可视化。
 
 | 功能 | 说明 |
 |---|---|
